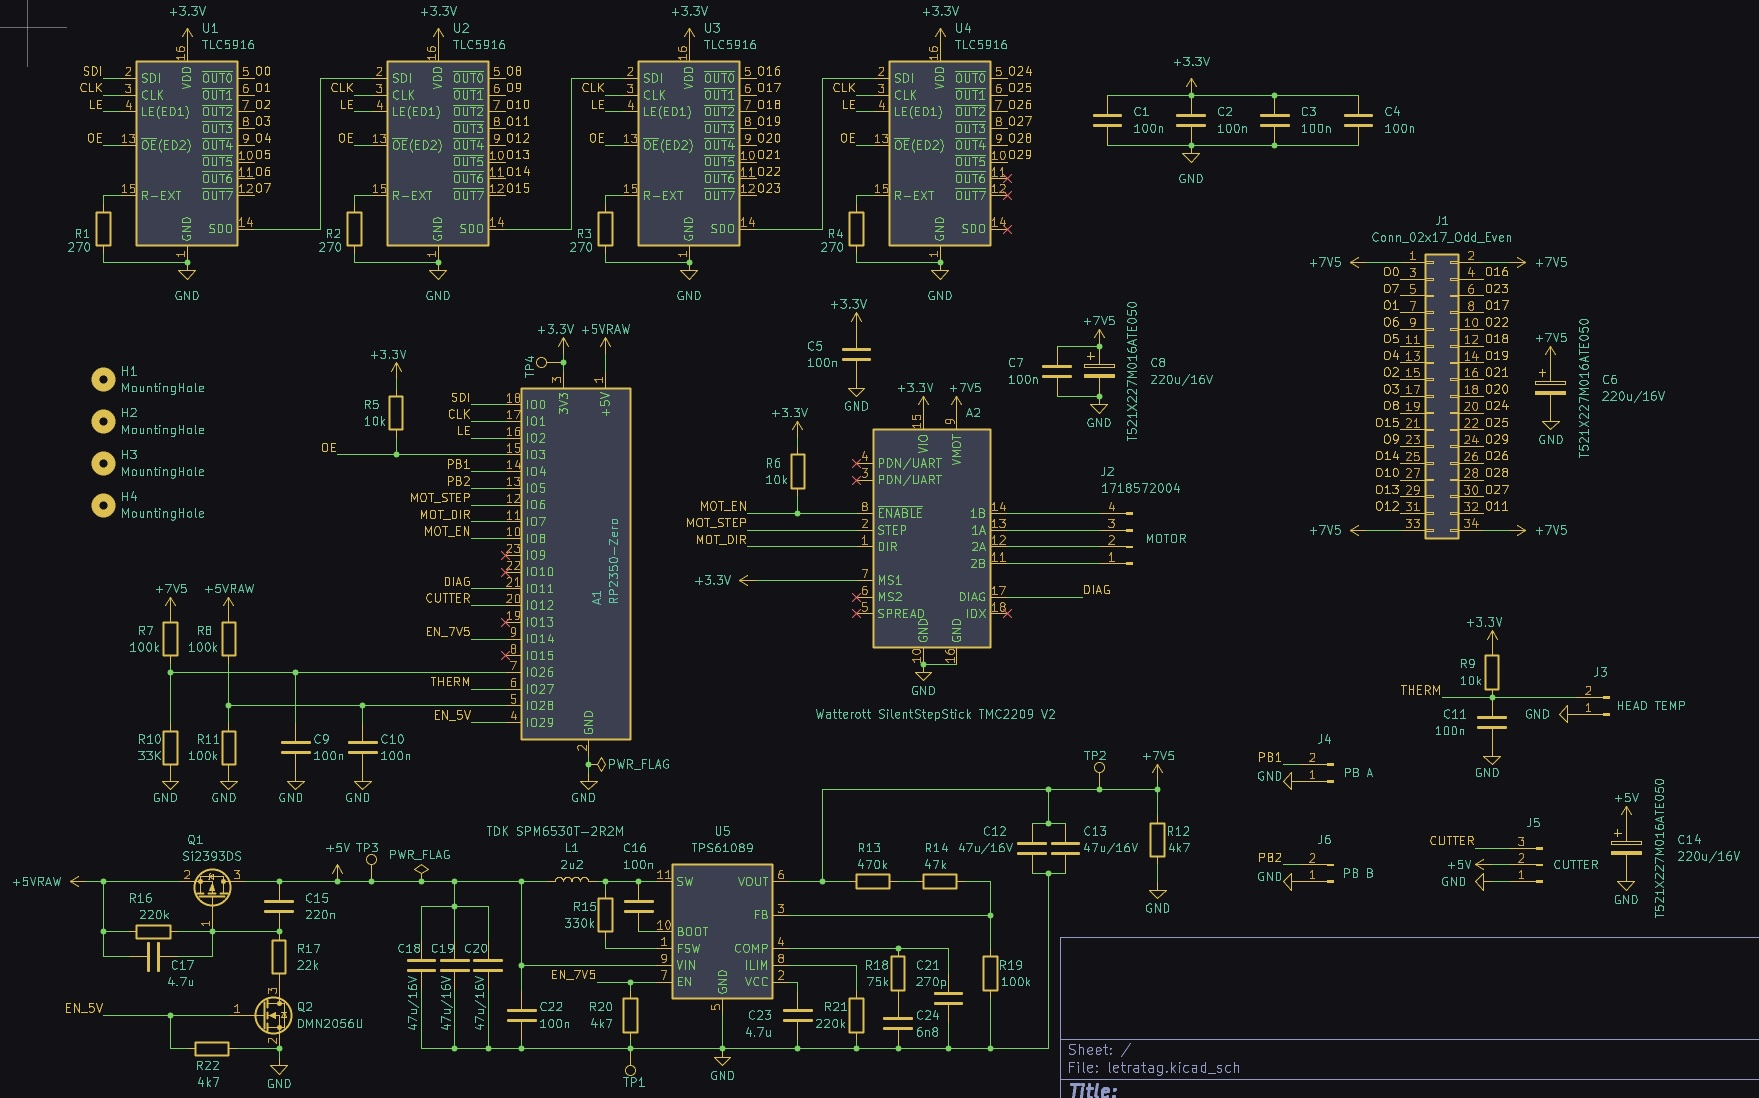
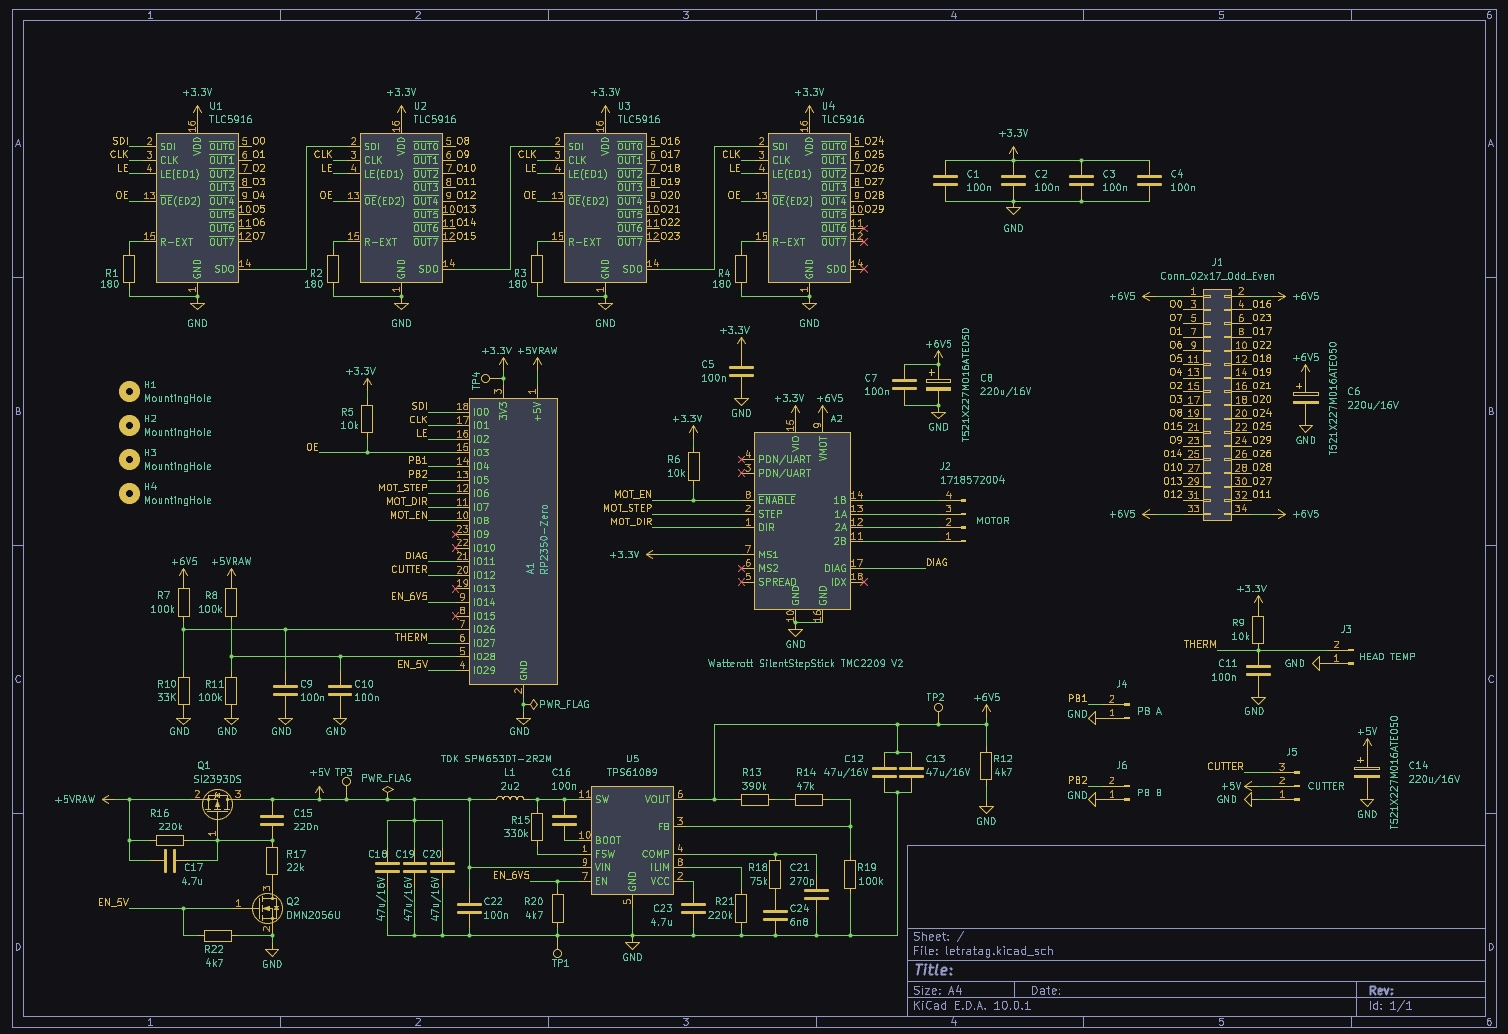
New demo video

diff --git a/docs/index.md b/docs/index.md
@@ -194,7 +194,7 @@ The firmware is written in Arduino, with Earle Philhower's arduino‑pico core. 
 **Chained labels and automatic cutting.** The blade is 57.5 mm away from the head, so a label is cut long after it is printed. Labels are printed back to back, each one with a 2 mm margin before and after the text. The firmware keeps track of every label boundary on the tape. When a boundary reaches the blade, the motor slows down and stops exactly there, the servo cuts, and printing goes on. No tape is wasted between labels.
 
 
-<div class="video"><iframe src="https://www.youtube-nocookie.com/embed/QhKLfP7KmZg" title="Auto-Letratag" allowfullscreen></iframe></div>
+<div class="video"><iframe src="https://www.youtube-nocookie.com/embed/rxOeNoNcACU" title="Auto-Letratag" allowfullscreen></iframe></div>
 
 **Calibration.** The head-to-blade distance depends on the mechanics, so it is a setting saved in flash, not a constant in the code. The `calib` command prints a thin bar and cuts where its middle should be. Look where the bar ended up, correct the value with `blade <mm>`, and repeat.
 
